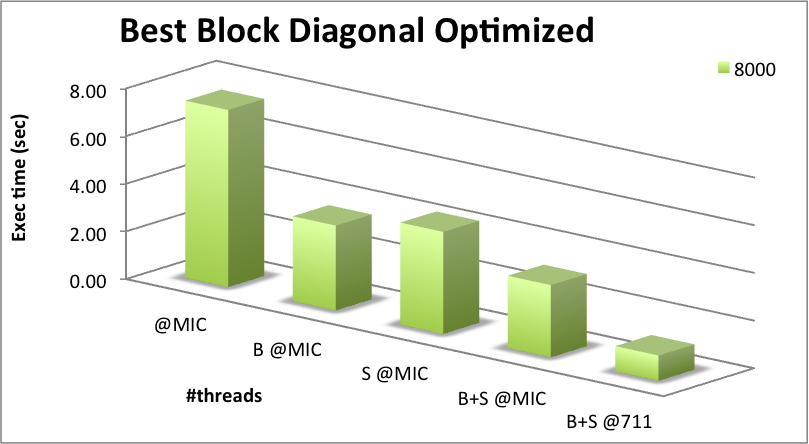
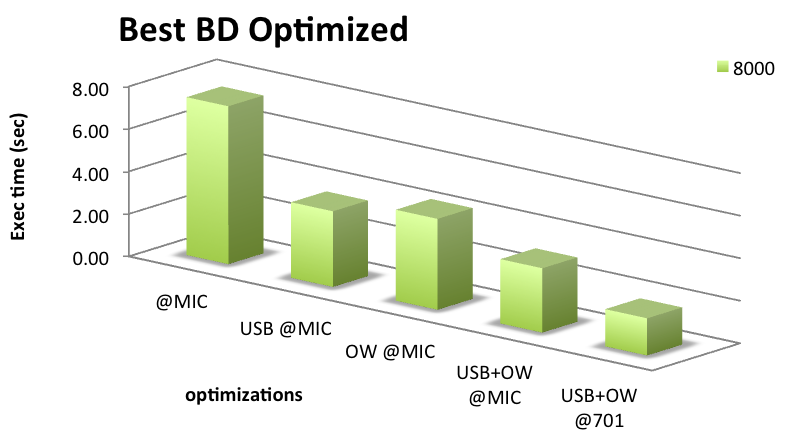
Result charts fixed

diff --git a/thesis/tex/450.multicore.results.tex b/thesis/tex/450.multicore.results.tex
@@ -14,7 +14,7 @@
 	\tdg{compiler and libraries}
 	Tests were built using \intel Composer XE 2011 (compiled with \icpc 12.0.2 and linked with \intel\mkl, for optimized \blas and \lapack) and Armadillo C++ Linear Algebra library (version 3.800.2).
 
-	\begin{table}[p]
+	\begin{table}[!htp]
 		\begin{center}
 			\begin{tabular}{lr}
 				\hline
@@ -32,65 +32,73 @@
 		\label{tab:search:701}
 	\end{table}
 
+
+
 	Preliminary tests showed identical results for the column and the row strategy. Consequently, results will are shown only for one of these strategies. As expected, they do not scale at all, unlike the diagonal strategy that reaches its maximum performance when using all the hardware supported threads (\cref{fig:multicore:point:row:times,fig:multicore:point:diagonal:speedup}).
-
-	\begin{figure}[hp]
-		\begin{center}
-			\includegraphics[width=0.9\textwidth]{assets/images/multicore/point-row.png}
-		\end{center}
-		\caption[Execution times for point-row]{Execution times for point method and row strategy.}
-		\label{fig:multicore:point:row:times}
-	\end{figure}
-
-	\begin{figure}[hp]
-		\begin{center}
-			\includegraphics[width=0.9\textwidth]{assets/images/multicore/point-diagonal.png}
-		\end{center}
-		\caption[Speedup point-diagonal vs point-row]{Speedup achieved with point-diagonal versus point-row.}
-		\label{fig:multicore:point:diagonal:speedup}
-	\end{figure}
 
 	The block method also scales well (\cref{fig:multicore:block:diagonal:speedup}), with the maximum speedup versus the point-row implementation being reached when using 32 threads (the 16 cores with Hyper-Threading). Using power-of-two matrices it is possible to see that not only is the block method faster than the point alternative, it is also less sensitive to small variations in the matrix size (\cref{fig:multicore:sensitivity}).
 
-	\begin{figure}[hp]
-		\begin{center}
-			\includegraphics[width=0.9\textwidth]{assets/images/multicore/block-diagonal.png}
-		\end{center}
-		\caption{Execution times for block method and diagonal strategy}
-		\label{fig:multicore:block:diagonal:speedup}
+
+	Blocking already shows significant speedup on its own, when compared to the point method using the same number of threads (\cref{fig:multicore:block:diagonal:speedup}). Nonetheless, \cref{fig:multicore:block:diagonal:speedup:accumulated} shows the scalability of the block method compared with single-threaded point-diagonal achieves impressive speedup values (over 128 using 16 or 32 threads). These values are even higher for particular matrix sizes (\cref{fig:multicore:block:diagonal:speedup:accumulated:strange}).
+
+	\begin{figure}[p]
+		\begin{minipage}[t]{0.48\textwidth}
+			\centering
+			\includegraphics[width=\textwidth]{assets/images/multicore/point-row.png}
+			\caption[Execution times for point-row]{Execution times for point method and row strategy.}
+			\label{fig:multicore:point:row:times}
+		\end{minipage}
+		\hfill
+		\begin{minipage}[t]{0.46\textwidth}
+			\centering
+			\includegraphics[width=\textwidth]{assets/images/multicore/point-diagonal.png}
+			\caption[Speedup point-diagonal vs point-row]{Speedup achieved with point-diagonal versus point-row.}
+			\label{fig:multicore:point:diagonal:speedup}
+		\end{minipage}
 	\end{figure}
 
-	\begin{figure}[hp]
-		\begin{center}
-			\includegraphics[width=0.9\textwidth]{assets/images/multicore/matrix-variations.png}
-		\end{center}
+	\begin{figure}[p]
+		\begin{minipage}[t]{0.47\textwidth}
+			\centering
+			\includegraphics[width=\textwidth]{assets/images/multicore/block-diagonal.png}
+			\caption{Execution times for block method and diagonal strategy}
+			\label{fig:multicore:block:diagonal:speedup}
+		\end{minipage}
+		\hfill
+		\begin{minipage}[t]{0.48\textwidth}
+			\centering
+			\includegraphics[width=\textwidth]{assets/images/multicore/diagonal-speedup.png}
+			\caption{Speedups achieved with blocking for diagonal strategy}
+			\label{fig:multicore:block:diagonal:speedup}
+		\end{minipage}
+	\end{figure}
+
+	\begin{figure}[p]
+		\centering
+		\includegraphics[height=0.25\textheight]{assets/images/multicore/matrix-variations.png}
 		\caption{Execution time sensitivity for both point and block methods, using diagonal strategy}
 		\label{fig:multicore:sensitivity}
 	\end{figure}
 
-	Blocking already shows significant speedup on its own, when compared to the point method using the same number of threads (\cref{fig:multicore:block:diagonal:speedup}). Nonetheless, \cref{fig:multicore:block:diagonal:speedup:accumulated} shows the scalability of the block method compared with single-threaded point-diagonal achieves impressive speedup values (over 128 using 16 or 32 threads). These values are even higher for particular matrix sizes (\cref{fig:multicore:block:diagonal:speedup:accumulated:strange}).
-
-	\begin{figure}[hp]
-		\begin{center}
-			\includegraphics[width=0.9\textwidth]{assets/images/multicore/diagonal-speedup.png}
-		\end{center}
+	\begin{figure}[p]
+		\centering
+		\includegraphics[height=0.25\textheight]{assets/images/multicore/diagonal-speedup.png}
 		\caption{Speedups achieved with blocking for diagonal strategy}
 		\label{fig:multicore:block:diagonal:speedup}
 	\end{figure}
 
-	\begin{figure}[hp]
-		\begin{center}
-			\includegraphics[width=0.9\textwidth]{assets/images/multicore/diagonal-block-stpoint-speedup.png}
-		\end{center}
-		\caption{Accumulated speedup achieved with blocking for diagonal strategy}
-		\label{fig:multicore:block:diagonal:speedup:accumulated}
+	\begin{figure}[p]
+			\centering
+			\includegraphics[height=0.25\textheight]{assets/images/multicore/diagonal-block-stpoint-speedup.png}
+			\caption{Accumulated speedup achieved with blocking for diagonal strategy}
+			\label{fig:multicore:block:diagonal:speedup:accumulated}
 	\end{figure}
-
-	\begin{figure}[hp]
-		\begin{center}
-			\includegraphics[width=0.9\textwidth]{assets/images/multicore/diagonal-block-stpoint-speedup-strange.png}
-		\end{center}
-		\caption{Accumulated speedups achieved with blocking for diagonal strategy (power of 2 sizes)}
+	
+	\begin{figure}[p]
+		\centering
+		\includegraphics[height=0.25\textheight]{assets/images/multicore/diagonal-block-stpoint-speedup-strange.png}
+		\captionsetup{font=small}
+		\caption{Accumulated speedup achieved with blocking for diagonal strategy (power of 2 sizes)}
 		\label{fig:multicore:block:diagonal:speedup:accumulated:strange}
 	\end{figure}
 \end{document}

diff --git a/thesis/tex/550.mic.results.tex b/thesis/tex/550.mic.results.tex
@@ -14,51 +14,52 @@
 
 	On the other hand, the lack of performance improvements from loop unrolling did not come as a surprise, serving the purpose of proving how the \intel\xeonphi coprocessor is superior to a \gpu when dealing with conditional branches.
 
-	The execution time for \usb is shown in \cref{fig:mic:optims:blockified:times} and, comparing with \cref{fig:mic:block:diagonal:times}, the speedup is clear even for the sequential time (reduced to less than half). The peak performance remained near the same number of threads (30 for $n=2000$, 60 for $n=4000$ and 120 for $n=8000$), but when more threads than those supported by the hardware are demanded, the performance now drops more intensely, with the optimized implementation taking twice as long with 360 threads.
+	The execution time for \usb is shown in \cref{fig:mic:optims:usb:times} and, comparing with \cref{fig:mic:block:diagonal:times}, the speedup is clear even for the sequential time (reduced to less than half). The peak performance remained near the same number of threads (30 for $n=2000$, 60 for $n=4000$ and 120 for $n=8000$), but when more threads than those supported by the hardware are demanded, the performance now drops more intensely, with the optimized implementation taking twice as long with 360 threads.
 
 	\begin{figure}[p]
-		\begin{center}
-			\includegraphics[width=0.9\textwidth]{assets/images/mic/optims/mic-blockified.png}
-		\end{center}
-		\caption{Execution times for the USB optimization in the \intel\xeonphi coprocessor.}
-		\label{fig:mic:optims:blockified:times}
+		\centering
+		\includegraphics[height=0.25\textheight]{assets/images/mic/optims/mic-usb-times.png}
+		% \captionsetup{font=small}
+		\caption{Execution times for USB in the \intel\xeonphi coprocessor.}
+		\label{fig:mic:optims:usb:times}
+	\end{figure}
+	
+	\begin{figure}[p]
+		\centering
+		\includegraphics[height=0.25\textheight]{assets/images/mic/optims/mic-ow-times.png}
+		% \captionsetup{font=small}
+		\caption{Execution times for OW in the \intel\xeonphi coprocessor.}
+		\label{fig:mic:optims:ow:times}
 	\end{figure}
 
-	While not so good, OW also improves the efficiency of the implementation, as shown in \cref{fig:mic:optims:self:times}. Contrary to what happens with USB, this optimization practically removes the penalty of demanding more threads than what the hardware supports, maintaining the execution time near peak performance even above 8 threads per core. Yet, the minimum execution time this optimization achieves is not as low.
-
 	\begin{figure}[p]
-		\begin{center}
-			\includegraphics[width=0.9\textwidth]{assets/images/mic/optims/mic-self.png}
-		\end{center}
-		\caption{Execution times for the OW optimization in the \intel\xeonphi coprocessor.}
-		\label{fig:mic:optims:self:times}
-	\end{figure}
-
-	Although USB exceeds OW in speedup, the highest efficiency is achieved when using both optimizations at the same time (\cref{fig:mic:optims:blockified_self:times}). The sequential time and the time obtained with 360 threads are practically the same as for USB only, and the same happens for the peaks. However, the value obtained with these peaks is reduced when OW is also applied.
-
-	\begin{figure}[p]
-		\begin{center}
-			\includegraphics[width=0.9\textwidth]{assets/images/mic/optims/mic-blockified.png}
-		\end{center}
+		\centering
+		\includegraphics[height=0.25\textheight]{assets/images/mic/optims/mic-usbow-times.png}
 		\caption{Execution times for USB and OW in the \intel\xeonphi coprocessor.}
-		\label{fig:mic:optims:blockified_self:times}
+		\label{fig:mic:optims:usbow:times}
 	\end{figure}
+
+	While not so good, OW also improves the efficiency of the implementation, as shown in \cref{fig:mic:optims:ow:times}. Contrary to what happens with USB, this optimization practically removes the penalty of demanding more threads than what the hardware supports, maintaining the execution time near peak performance even above 8 threads per core. Yet, the minimum execution time this optimization achieves is not as low.
+
+	Although USB exceeds OW in speedup, the highest efficiency is achieved when using both optimizations at the same time (\cref{fig:mic:optims:usbow:times}). The sequential time and the time obtained with 360 threads are practically the same as for USB only, and the same happens for the peaks. However, the value obtained with these peaks is reduced when OW is also applied.
 
 	\Cref{fig:mic:optims:best:times} shows the best execution times for the naive implementation and each optimization running in the \intel\xeonphi and the best execution time for USB and OW together running on the multicore environment. While it is clear the benefit of both optimizations, there is the problem of these optimizations being common to both the coprocessor and the multicore environment. However, \cref{fig:mic:optims:best:times} shows that these optimizations significantly reduce the speedup gap between the \cpu and the device.
 
-	\begin{figure}[p]
-		\begin{center}
-			\includegraphics[width=0.9\textwidth]{assets/images/mic/optims/best.png}
-		\end{center}
-		\caption{Best execution times for the optimizations.}
-		\label{fig:mic:optims:best:times}
-	\end{figure}
-
-	\begin{figure}[p]
-		\begin{center}
-			\includegraphics[width=0.9\textwidth]{assets/images/mic/optims/best-speedup.png}
-		\end{center}
-		\caption{Speedups for the optimizations versus multicore in group 701.}
-		\label{fig:mic:optims:best:speedup}
+	\begin{figure}[t]
+		\begin{minipage}{0.48\textwidth}
+			\centering
+			\includegraphics[width=\textwidth]{assets/images/mic/optims/best.png}
+			\captionsetup{font=small}
+			\caption{Best execution times for the optimizations.}
+			\label{fig:mic:optims:best:times}
+		\end{minipage}
+		\hfill
+		\begin{minipage}{0.48\textwidth}
+			\centering
+			\includegraphics[width=\textwidth]{assets/images/mic/optims/best-speedup.png}
+			\captionsetup{font=small}
+			\caption{Speedups for the optimizations versus multicore in group 701 (from \cref{chp:multicore}).}
+			\label{fig:mic:optims:best:speedup}
+		\end{minipage}
 	\end{figure}
 \end{document}

diff --git a/thesis/tex/531.mic.native.results.tex b/thesis/tex/531.mic.native.results.tex
@@ -10,7 +10,7 @@
 	\tdg{environment}
 	Measurements for this section were performed using a single computational node of the 711 group in the \search cluster, containing two \intel\xeon E5-2670 \cpus sharing 64GB DRAM (\numa) and an \intel\xeonphi Coprocessor 5110P (see \cref{tab:search:711,tab:5110p} for the hardware details). These nodes run Linux CentOS 6.4 and provide \intel Composer XE 2013. Tests were built with \icpc 13.1.2, \mkl, and Armadillo (3.900.7).
 
-	\begin{table}[p]
+	\begin{table}[!b]
 		\centering
 		\begin{tabular}{|l|c|c|}
 			\hline
@@ -31,31 +31,35 @@
 		\label{tab:search:711}
 	\end{table}
 
-	\begin{figure}[htp]
-		\begin{center}
-			\includegraphics[width=0.9\textwidth]{assets/images/mic/point-diagonal.png}
-		\end{center}
-		\caption{Execution times for point method and diagonal strategy in the \intel\xeonphi}
-		\label{fig:mic:point:diagonal:times}
+	\begin{figure}[t]
+		\begin{minipage}{0.48\textwidth}
+			\centering
+			\includegraphics[width=\textwidth]{assets/images/mic/point-diagonal.png}
+			\captionsetup{font=small}
+			\caption{Execution times for point-diagonal in the \intel\xeonphi}
+			\label{fig:mic:point:diagonal:times}
+		\end{minipage}
+		\hfill
+		\begin{minipage}{0.48\textwidth}
+			\centering
+			\includegraphics[width=\textwidth]{assets/images/mic/block-diagonal.png}
+			\captionsetup{font=small}
+			\caption{Execution times for block-diagonal strategy in the \intel\xeonphi}
+			\label{fig:mic:block:diagonal:times}
+		\end{minipage}
 	\end{figure}
 
-	\begin{figure}[htp]
-		\begin{center}
-			\includegraphics[width=0.9\textwidth]{assets/images/mic/block-diagonal.png}
-		\end{center}
-		\caption{Execution times for block method and diagonal strategy in the \intel\xeonphi}
-		\label{fig:mic:block:diagonal:times}
+	\begin{figure}[t]
+		\centering
+		\begin{minipage}{0.7\textwidth}
+			\centering
+			\includegraphics[width=0.8\textwidth]{assets/images/mic/mic-cpu-speedup-accumulated.png}
+			\captionsetup{font=small}
+			\caption{Accumulated speedup from block-diagonal in the \intel\xeonphi versus point-diagonal in the \cpu.}
+			\label{fig:mic:mic-cpu:speedup:accumulated}
+		\end{minipage}
 	\end{figure}
 
 	\Cref{fig:mic:point:diagonal:times,fig:mic:block:diagonal:times} show the obtained execution times using the diagonal strategy for both methods as described in \cref{chp:multicore}. The scalability of the algorithm is near perfect for both, with the execution time being cut almost by half until the number of threads matches the number of cores in the device. After that, the speedup slows down, with the point method reaching its peak performance when using 4 hardware threads per core (full Hyper-Threading) and the block method plateauing at 2 hardware threads per core. The block method performance only leaves this plateau when 8 or more threads per core are used.
-
-	\begin{figure}[htp]
-		\begin{center}
-			\includegraphics[width=0.9\textwidth]{assets/images/mic/mic-cpu-speedup-accumulated.png}
-		\end{center}
-		\caption{Accumulated speedup from block-diagonal in the \intel\xeonphi versus point-diagonal in the \cpu}
-		\label{fig:mic:mic-cpu:speedup:accumulated}
-	\end{figure}
-
 	Although the accumulated speedup of executing the block-diagonal in the \intel\xeonphi is still significant when compared to single-threaded point method in the \cpu, it does not even reach half of the accumulated speedup achieved in the \cpu (\cref{fig:mic:mic-cpu:speedup:accumulated}. In fact, when comparing the accumulated speedups in both platforms, the best value obtained in the \intel\xeonphi is about three times slower than the best value obtained in the \cpu.
 \end{document}

diff --git a/thesis/tex/510.mic.arch.tex b/thesis/tex/510.mic.arch.tex
@@ -4,11 +4,25 @@
 	\section{Architecture}
 	\label{sec:mic:arch}
 
+	\begin{wrapfigure}{r}{0.3\textwidth}
+		\centering
+		\includegraphics[width=0.25\textwidth]{assets/images/mic/arch/core.png}
+		\captionsetup{font=small}
+		\caption{\intel MIC Architecture core diagram.}
+		\label{fig:mic:core}
+	\end{wrapfigure}
+
 	\tdg{\# of cores, frequency and cache}
 	The \intel\xeon Phi Coprocessor contains up to 61 fully functional in-order \intel\mic Architecture cores running at 1GHz (up to 1.3GHz), each containing 64KB of L1 cache (evenly split for data and instructions) and 512KB of L2 cache.
 
 	\tdg{Memory}
 	The device can support 8 memory controllers with two \gddr5 channels each. These support a total of 5.5 GT/s, corresponding to a theoretical aggregate bandwidth of 352 GB/s. So far, the maximum memory size available is 16GB\footnote{\intel\xeonphi Coprocessor 7120X \cite{intel:datasheet:xeonphi}}.
+
+	\begin{figure}[t]
+		\centering
+		\includegraphics[height=0.3\textheight]{assets/images/mic/arch/microarch.png}
+		\caption{Knights Corner Microarchitecture.}
+	\end{figure}
 
 	\tdg{Ring, LL cache and coherency}
 	A high performance on-die bidirectional ring connects the L2 caches, the memory controllers and the \pcie interface logic. The connected L2 caches allow for requests to be fulfilled from other cores' L2 caches faster than it would be from memory, thus implementing a last-level cache with over 30MB. Cache coherency is preserved across the entire coprocessor through a distributed tag directory using a reversible one-to-one hashing function.

diff --git a/thesis/tex/650.cuda.results.tex b/thesis/tex/650.cuda.results.tex
@@ -37,10 +37,9 @@
 	\tdg{reasons for being worse}
 	However, there are several reasons for this to happen. First, the multicore implementation has been the target of several optimizations in this document, while this is an initial completely functional \cuda implementation. Given the time already invested in the \intel\xeonphi coprocessor, it is not feasible to perform optimizations targeting the \cuda environment. Next, the absence of optimized \blas and \lapack packages suiting the needs of the implementation. \mkl provides it for both multicore environment and coprocessor, while manual (also naive) implementations had to be devised for \cuda. Lastly, the synchronization requirement between diagonals forces the runtime to return to the \cpu between two consecutive diagonals, creating a bottleneck when the amount of elements/blocks no longer provides enough parallelism to overcome the communication cost.
 
-	\begin{figure}[htp]
-		\begin{center}
-			\includegraphics[width=0.9\textwidth]{assets/images/cuda/times.png}
-		\end{center}
+	\begin{figure}[t]
+		\centering
+		\includegraphics[width=0.9\textwidth]{assets/images/cuda/times.png}
 		\caption{Execution times for the CUDA implementation in a Tesla K20m (Kepler architecture).}
 		\label{fig:cuda:results:times}
 	\end{figure}

diff --git a/thesis/tex/560.mic.further.tex b/thesis/tex/560.mic.further.tex
@@ -12,9 +12,9 @@
 
 	\begin{figure}
 		\begin{center}
-			\includegraphics[width=\textwidth]{assets/images/kmp_affinity_balanced.png}
+			\includegraphics[width=0.7\textwidth]{assets/images/kmp_affinity_balanced.png}
 		\end{center}
-		\caption{Example of balanced policy in a 4 core coprocessor for 8 threads with granularity fine (source: \cite{CESGA:MIC:Evaluation})}
+		\caption{Example of balanced policy in a 4 core coprocessor for 8 threads with fine granularity.}
 		\label{fig:kmp_affinity:balanced}
 	\end{figure}
 

diff --git a/thesis/tex/620.cuda.arch.tex b/thesis/tex/620.cuda.arch.tex
@@ -14,7 +14,8 @@
 	\begin{wrapfigure}{r}{0.3\textwidth}
 		\centering
 		\includegraphics[width=0.25\textwidth]{assets/images/cuda/arch/cuda-core.png}
-		\caption{\\\smaller CUDA core diagram.}
+		\captionsetup{font=small}
+		\caption{CUDA core diagram.}
 		\label{fig:cudacore}
 	\end{wrapfigure}
 
